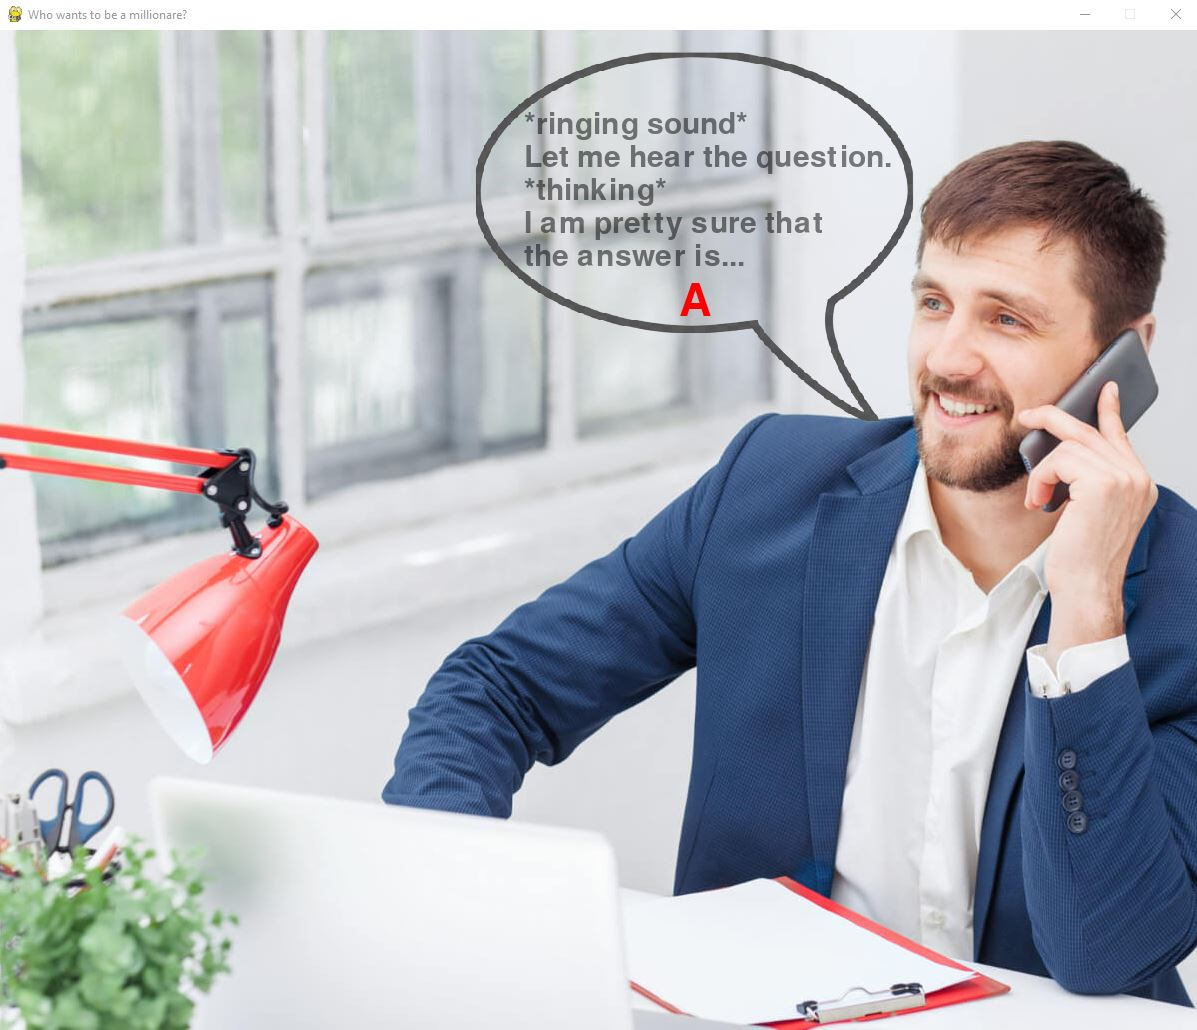
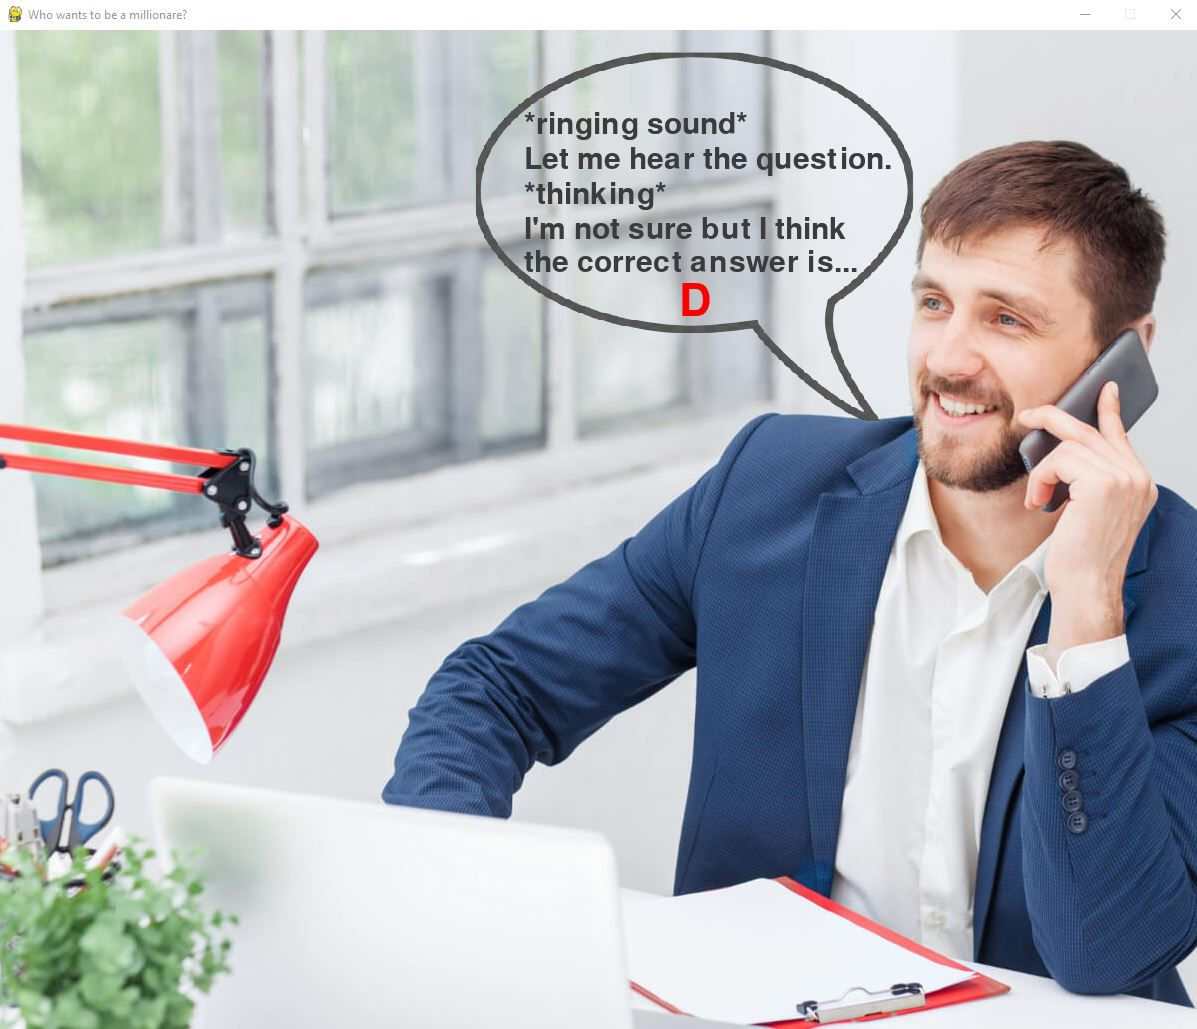
Added phone wait

diff --git a/screens.py b/screens.py
@@ -313,24 +313,31 @@ def audience_diagram(screen, numbers) -> None:
         pygame.time.delay(1000)
         pygame.event.pump()
 
+def phone_text(screen, text, pos, last = False) -> None:
+    font1 = fonts[4]
+    font2 = fonts[5]
+
+    if last: 
+        txt = font2.render(text, True, RED)
+    else:
+        txt = font1.render(text, True, (58, 59, 60))
+
+    screen.blit(txt, (pos[0], pos[1]))
+    pygame.display.update()
+    pygame.time.delay(3000)
+    pygame.event.pump()
+
 def phone_screen(screen, text, correct_answer) -> None:
     screen.blit(PHONE, (0, 0))
     screen.blit(BUBBLE, (465,0))
 
-    font = fonts[4]
-    font2 = fonts[5]
+    phone_text(screen, text[0], (525, 80))
+    phone_text(screen, text[1], (525, 115))
+    phone_text(screen, text[2], (525, 150))
+    phone_text(screen, text[3], (525, 185))
+    phone_text(screen, f"{correct_answer}", (680, 250), last = True)
 
-    opening = font.render(text, True, BLACK)
-    opening.set_alpha(127)
-
-    answer = font2.render(f"{correct_answer}", True, RED)
-    
-    screen.blit(opening, (525, 80))
-    screen.blit(answer, (680, 250))
-    
-    pygame.display.update()
-    
-    for _ in range(0, 15000, 1000):
+    for _ in range(0, 3000, 1000):
         pygame.time.delay(1000)
         pygame.event.pump()
 

diff --git a/help.py b/help.py
@@ -62,12 +62,14 @@ def evaluate_audience(question, values) -> Dict[str, int]:
 
     return my_dict
 
-def phone_call(question) -> str:
+def phone_call(question) -> tuple:
     text = random.choice(phone)
-    complete_text = f"""*ringing sound*
-Let me hear the question.
-*thinking*
-{text}"""
+    complete_text = [
+        "*ringing sound*",
+        "Let me hear the question.",
+        "*thinking*",
+        text
+    ]
     return complete_text, question.correct_answer
 
 def fifty_fifty(question) -> Question:
